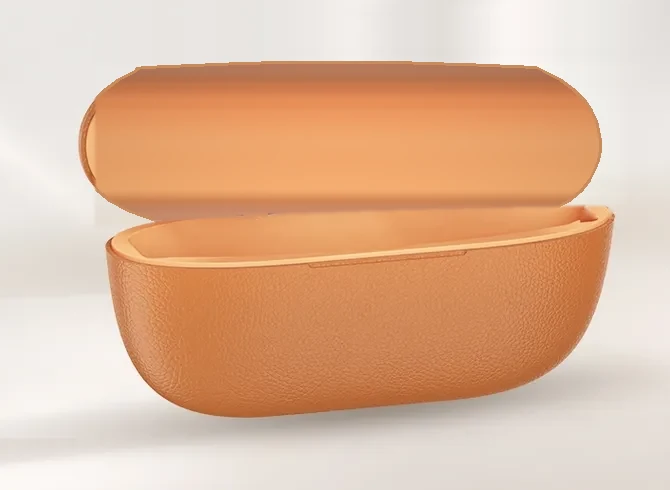
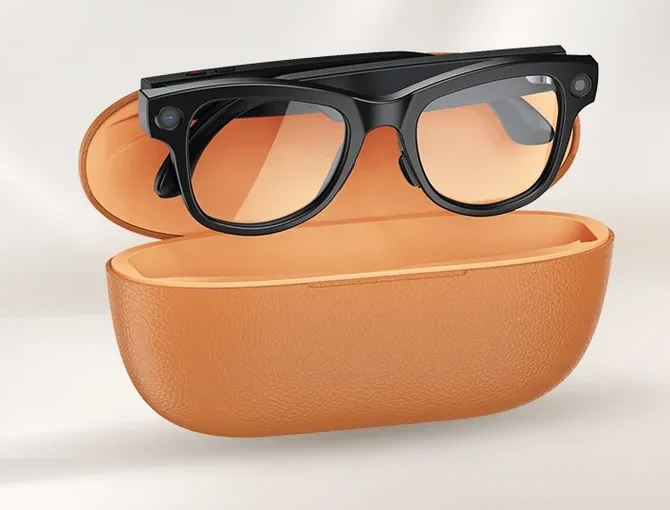
Anya: Display's case in black or brown, Nana's case with its glasses, Audio's pouch doesn't charge (v0.137.3) (#276)
* Anya: Audio's pouch doesn't charge; Nana's case shown with its glasses (v0.137.3)

* Anya Display: charging case in black or brown

diff --git a/app/(main)/anya/page.tsx b/app/(main)/anya/page.tsx
@@ -1,5 +1,5 @@
-import Image from "next/image";
 import AnyaHeroCarousel, { type AnyaSlide } from "@/components/anya/AnyaHeroCarousel";
+import AnyaCasePicture, { type CaseColour } from "@/components/anya/AnyaCasePicture";
 import Link from "next/link";
 import type { Metadata } from "next";
 import { BRAND_OWNER } from "@/lib/brand-guidelines";
@@ -39,7 +39,7 @@ const MODELS: Model[] = [
       "1080p HD video from the side camera",
       "A teleprompter in the lens",
       "Music playback",
-      "A charging case with a battery display",
+      "A charging case with a battery display, in black or brown",
     ],
     tone: "from-crimson to-crimson-bright",
   },
@@ -54,22 +54,26 @@ const MODELS: Model[] = [
     name: "Audio",
     line: "Listen. Talk. Connect.",
     about: "Open-ear audio glasses for music, podcasts and calls, with no AI. Simple, light and private.",
-    points: ["Music and podcasts", "Hands-free calls", "Open-ear speakers", "Controls on the arm", "A black leather charging pouch", "No AI, no camera"],
+    points: ["Music and podcasts", "Hands-free calls", "Open-ear speakers", "Controls on the arm", "A black leather pouch", "No AI, no camera"],
     tone: "from-[#3A0A18] to-crimson",
   },
 ];
 
-// The case that comes with each pair. Nana's and Audio's pictures have the supplier's glasses taken out (those frames have cameras).
-const CASES = [
-  { model: "Display", title: "Charging case with a battery display", accent: "#A6093D", src: "/anya/anya-display-case.webp", bg: "bg-[#E4E4E4]", fit: "object-cover",
-    alt: "Anya Display smart glasses above their black leather charging case, which shows the battery level on a round display on the front",
-    points: ["Shows the battery level on the front", "Charges your glasses while they're stored", "Black textured leather"] },
-  { model: "Nana", title: "Tan leather charging case", accent: "#2E49B8", src: "/anya/anya-nana-case.webp", bg: "bg-[#EDE9E6]", fit: "object-cover",
-    alt: "Anya Nana's open tan leather charging case",
+// The case that comes with each pair. Display's and Nana's charge the glasses; Audio's is a leather pouch that doesn't charge. Audio's
+// picture has the supplier's glasses taken out.
+const CASES: { model: string; title: string; accent: string; bg: string; fit: string; colours: CaseColour[]; points: string[] }[] = [
+  { model: "Display", title: "Charging case with a battery display", accent: "#A6093D", bg: "bg-[#E4E4E4]", fit: "object-cover",
+    colours: [
+      { name: "Black", swatch: "#1C1A1A", src: "/anya/anya-display-case-black.webp", alt: "Anya Display smart glasses above their black leather charging case, which shows the battery level on a round display on the front" },
+      { name: "Brown", swatch: "#9A5B2E", src: "/anya/anya-display-case-brown.webp", alt: "Anya Display smart glasses above their brown leather charging case, which shows the battery level on a round display on the front" },
+    ],
+    points: ["Shows the battery level on the front", "Charges your glasses while they're stored", "Textured leather, in black or brown"] },
+  { model: "Nana", title: "Tan leather charging case", accent: "#2E49B8", bg: "bg-[#EDE9E6]", fit: "object-cover",
+    colours: [{ name: "Tan", swatch: "#D98A4E", src: "/anya/anya-nana-case.webp", alt: "Anya Nana smart glasses resting in their open tan leather charging case" }],
     points: ["Charges your glasses while they're stored", "Soft, textured tan leather", "Protects the lenses on the go"] },
-  { model: "Audio", title: "Black leather charging pouch", accent: "#7A0328", src: "/anya/anya-audio-case.webp", bg: "bg-black", fit: "object-contain p-4",
-    alt: "Anya Audio's black leather charging pouch, open, with a snap fastener on the flap and a light on the front",
-    points: ["Charges your glasses while they're stored", "Snap-fastened leather flap", "A light on the front"] },
+  { model: "Audio", title: "Black leather pouch", accent: "#7A0328", bg: "bg-black", fit: "object-contain p-4",
+    colours: [{ name: "Black", swatch: "#111", src: "/anya/anya-audio-case.webp", alt: "Anya Audio's black leather pouch, open, with a snap fastener on the flap" }],
+    points: ["Protects your glasses in your bag", "Snap-fastened leather flap", "Textured black leather"] },
 ];
 
 // What each model has. true / false only: nothing here that hasn't been decided.
@@ -84,7 +88,8 @@ const COMPARE: [string, boolean, boolean, boolean][] = [
   ["1080p HD video", true, false, false],
   ["Teleprompter", true, false, false],
   ["Music playback", true, true, true],
-  ["Charging case included", true, true, true],
+  ["Charging case", true, true, false],
+  ["Leather pouch", false, false, true],
 ];
 
 const USES = [
@@ -176,13 +181,11 @@ export default function AnyaPage() {
       <section className="mx-auto max-w-6xl px-4 pt-16 sm:px-6 lg:px-8">
         <p className="eyebrow">In the box</p>
         <h2 className="mt-2 font-display text-4xl text-ink">Every pair comes with its own case</h2>
-        <p className="mt-3 max-w-2xl text-slate">Put your glasses away and they charge; take them out and they&apos;re ready. Each case protects them in your bag and looks good on the table.</p>
+        <p className="mt-3 max-w-2xl text-slate">Anya Display and Anya Nana charge in their cases: put them away and they charge, take them out and they&apos;re ready. Anya Audio comes with a leather pouch to carry it in.</p>
         <div className="mt-8 grid gap-5 md:grid-cols-3">
           {CASES.map((c) => (
             <article key={c.model} className="flex flex-col overflow-hidden rounded-3xl border border-rule bg-card shadow-sm">
-              <div className={`relative aspect-[4/3.4] ${c.bg}`}>
-                <Image src={c.src} alt={c.alt} fill sizes="(min-width: 768px) 360px, 100vw" className={c.fit} />
-              </div>
+              <AnyaCasePicture colours={c.colours} bg={c.bg} fit={c.fit} />
               <div className="flex flex-1 flex-col p-6">
                 <p className="font-mono text-[11px] uppercase tracking-eyebrow" style={{ color: c.accent }}>Anya {c.model}</p>
                 <h3 className="mt-1 font-display text-2xl text-ink">{c.title}</h3>

diff --git a/lib/kb-articles.ts b/lib/kb-articles.ts
@@ -1314,11 +1314,11 @@ ${ADD_ONS_LINE}`),
     A("anya-smart-glasses", "Anya smart glasses: Display, Nana and Audio (coming soon)", "Company", `
 Anya ("eye" in Igbo) is the family of smart glasses from #NotesApp. There are three models:
 
-- **Anya Display:** a screen in the lens, a side camera, microphones and open-ear speakers, controlled from the NotesApp app on your phone. It has Nana as an AI voice assistant, AI real-time translation in 139 languages, AI voice recording with live transcripts, smart image recognition, 1080p HD video, music playback, and a teleprompter in the lens for talks, lives and videos. It comes with a black leather charging case that shows the battery level on the front.
+- **Anya Display:** a screen in the lens, a side camera, microphones and open-ear speakers, controlled from the NotesApp app on your phone. It has Nana as an AI voice assistant, AI real-time translation in 139 languages, AI voice recording with live transcripts, smart image recognition, 1080p HD video, music playback, and a teleprompter in the lens for talks, lives and videos. It comes with a leather charging case, in black or brown, that shows the battery level on the front.
 - **Anya Nana:** open-ear audio with Nana AI built in as your companion: hands-free questions and answers, AI real-time translation in 139 languages, music and calls. It comes with a tan leather charging case.
-- **Anya Audio:** open-ear audio for music, podcasts and calls, with no AI and no camera. It comes with a black leather charging pouch.
+- **Anya Audio:** open-ear audio for music, podcasts and calls, with no AI and no camera. It comes with a black leather pouch to carry it in (the pouch doesn't charge).
 
-Every pair charges in its case while it's stored.
+Anya Display and Anya Nana charge in their cases while they're stored.
 
 **Price and pre-orders:** not announced yet. To be among the first to try Anya, open [Anya](/anya) and tap **Register your interest**; it opens the contact form on the Anya topic. Registering is free and doesn't commit you to buy. We'll contact you before pre-orders open.
 `),

diff --git a/components/anya/AnyaCasePicture.tsx b/components/anya/AnyaCasePicture.tsx
@@ -1,0 +1,46 @@
+"use client";
+
+import Image from "next/image";
+import { useState } from "react";
+
+// A case picture on /anya. When a case comes in more than one colour, round swatches under the picture switch between them, with a
+// short dissolve; the chosen colour's name is shown beside them.
+export type CaseColour = { name: string; swatch: string; src: string; alt: string };
+
+export default function AnyaCasePicture({ colours, bg, fit }: { colours: CaseColour[]; bg: string; fit: string }) {
+  const [shown, setShown] = useState(0);
+  return (
+    <div>
+      <div className={`relative aspect-[4/3.4] ${bg}`}>
+        {colours.map((c, i) => (
+          <Image
+            key={c.src}
+            src={c.src}
+            alt={c.alt}
+            fill
+            sizes="(min-width: 768px) 360px, 100vw"
+            aria-hidden={i !== shown}
+            className={`${fit} transition-opacity duration-500 ${i === shown ? "opacity-100" : "opacity-0"}`}
+          />
+        ))}
+      </div>
+      {colours.length > 1 && (
+        <div className="flex items-center gap-3 px-6 pt-4" role="radiogroup" aria-label="Case colour">
+          {colours.map((c, i) => (
+            <button
+              key={c.name}
+              type="button"
+              role="radio"
+              aria-checked={i === shown}
+              aria-label={c.name}
+              onClick={() => setShown(i)}
+              className={`h-7 w-7 rounded-full border-2 transition ${i === shown ? "border-crimson ring-2 ring-crimson/25" : "border-rule hover:border-slate"}`}
+              style={{ background: c.swatch }}
+            />
+          ))}
+          <span className="font-ui text-sm text-slate">{colours[shown].name}</span>
+        </div>
+      )}
+    </div>
+  );
+}

diff --git a/lib/changelog.ts b/lib/changelog.ts
@@ -11,6 +11,14 @@ export type Release = {
 
 export const CHANGELOG: Release[] = [
   {
+    version: "v0.137.3",
+    bump: "patch",
+    date: "2026-11-04",
+    changes: [
+      { kind: "fixed", text: "Anya page: Anya Audio comes with a black leather pouch to carry it in, not a charging case; Anya Display and Anya Nana charge in their cases. The Anya Nana case is shown with its glasses, and Anya Display's charging case comes in two colours, black or brown." },
+    ],
+  },
+  {
     version: "v0.137.2",
     bump: "patch",
     date: "2026-11-04",

diff --git a/HANDOVER.md b/HANDOVER.md
@@ -727,6 +727,8 @@ All of these are on the team hub board with departments and dates (`lib/team-see
     Each model's case is in the "In the box" section: Display's battery-display case (`anya-display-case.webp`, the owner's photo),
     Nana's tan leather case and Audio's black leather pouch (`anya-nana-case.webp`, `anya-audio-case.webp`: the supplier's photos with
     the glasses removed, since those frames have cameras).
+    **v0.137.3:** Audio's is a plain leather pouch (no charging); Nana's case photo shows its glasses again (the owner's choice);
+    Display's case comes in black or brown (`anya-display-case-{black,brown}.webp`), switched by swatches (`components/anya/AnyaCasePicture.tsx`).
 
 ## 3. How the work is done (please keep these)
 
